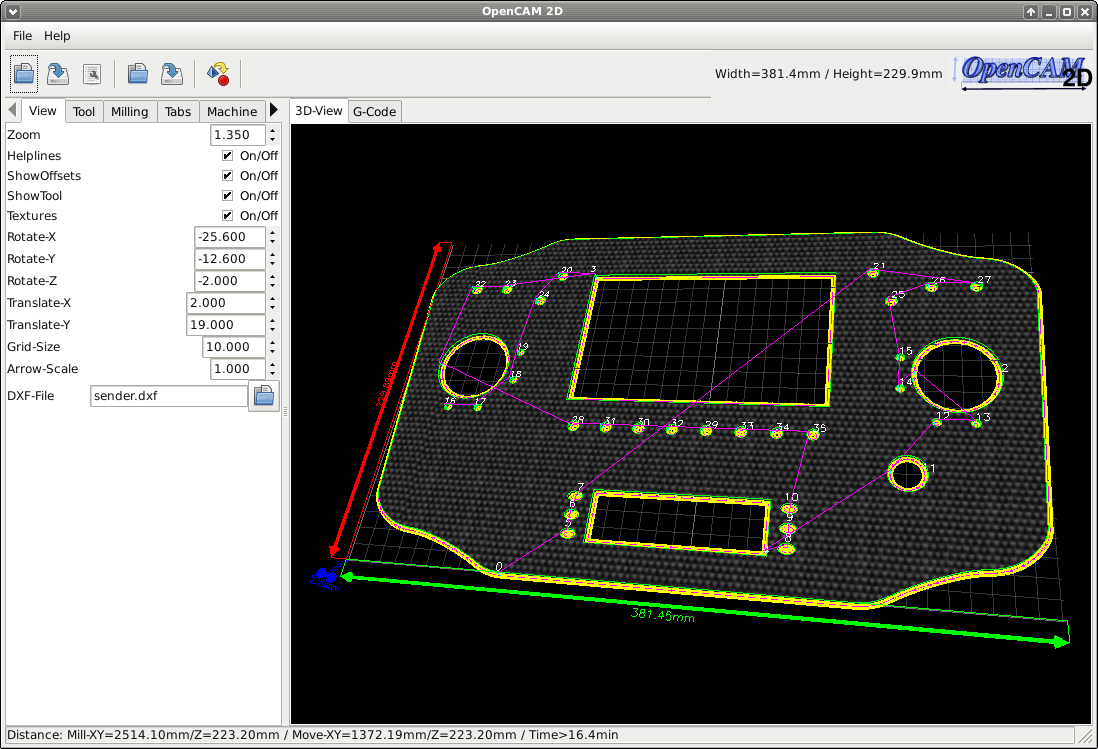
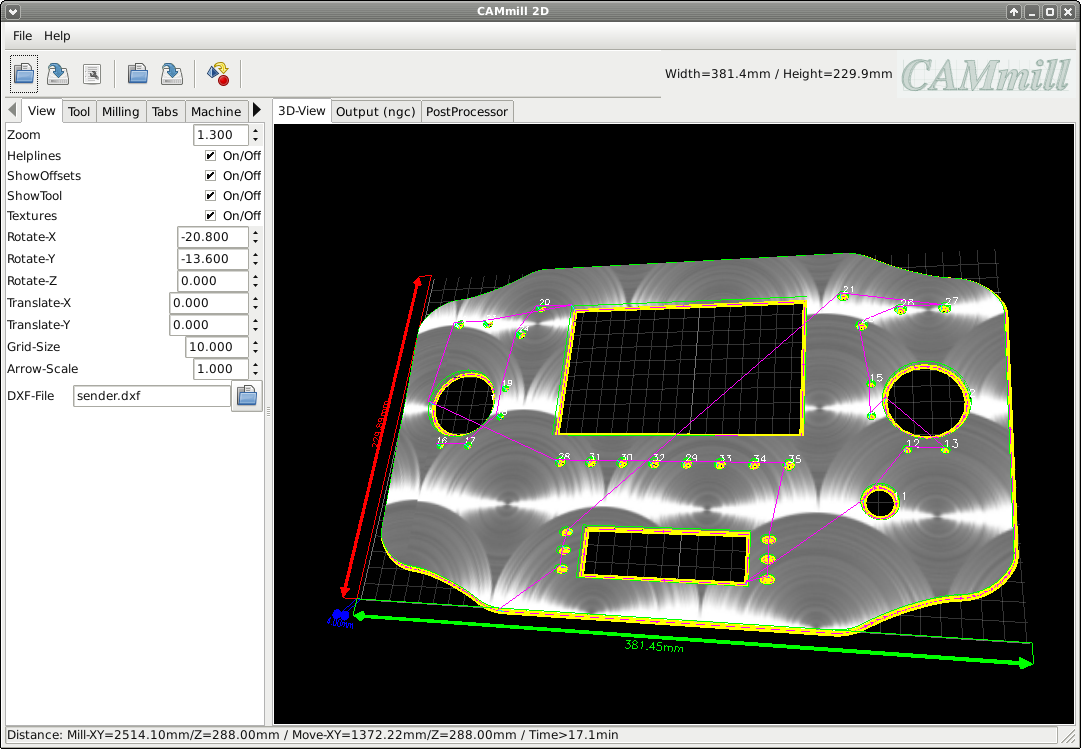
new name: cammill

diff --git a/index.html b/index.html
@@ -1,6 +1,4 @@
-<H1>OpenCAM 2D</H1>
-
-
+<H1>CAMmill</H1>
 
 <H2>Features</H2>
 	<LI>Automatic Offsets (Inside / Outside)
@@ -16,11 +14,9 @@
 
 
 <H2>Screenshots<H2>
-
 <IMG src="doc/sc_main.png"><BR>
-<IMG src="doc/sc_gcode.png"><BR>
-<IMG src="doc/sc_objects.png"><BR>
-<IMG src="doc/sc_tools.png"><BR>
-<IMG src="doc/sc_tree.png"><BR>
+<IMG src="doc/sc_rotary.png"><BR>
+<IMG src="doc/sc_output.png"><BR>
+<IMG src="doc/sc_post.png"><BR>
 
 
